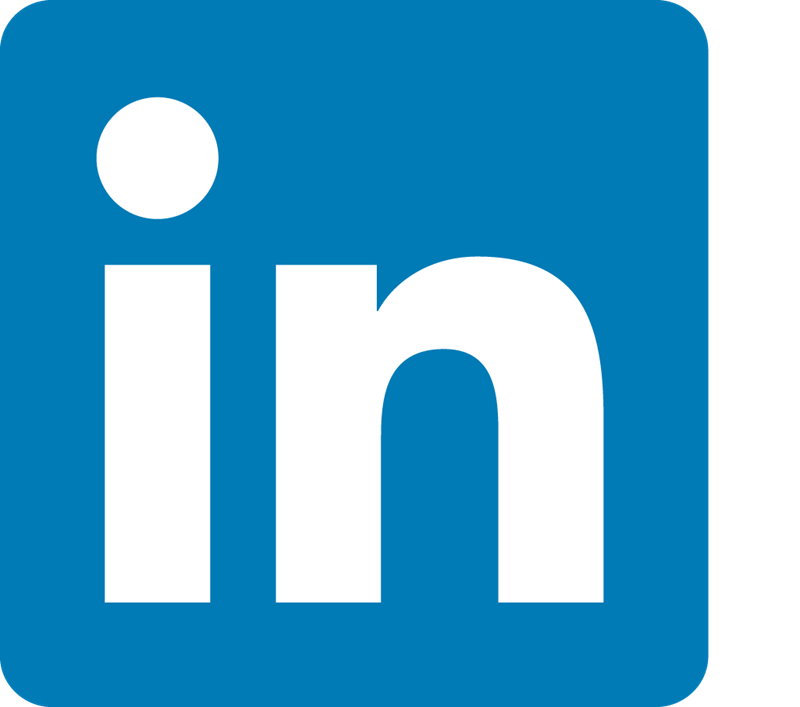
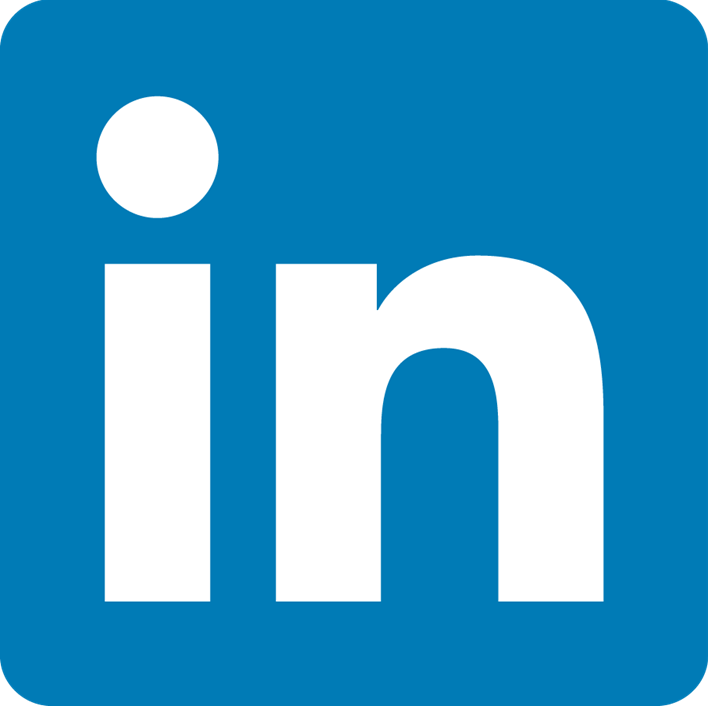
Adding more images

diff --git a/_layouts/Emanuel.html b/_layouts/Emanuel.html
@@ -27,6 +27,8 @@
       <h2 class="project-tagline">{{ page.description | default: site.description | default: site.github.project_tagline }}</h2>
       <p align="center">
         <img src="./assets/imgs/github.png" width="75">
+        <img src="./assets/imgs/linkedin.png" width="75">
+        <img src="./assets/imgs/mail.png" width="75">
       </p>
       {% if site.github.is_project_page %}
         <a href="{{ site.github.repository_url }}" class="btn">View on GitHub</a>
